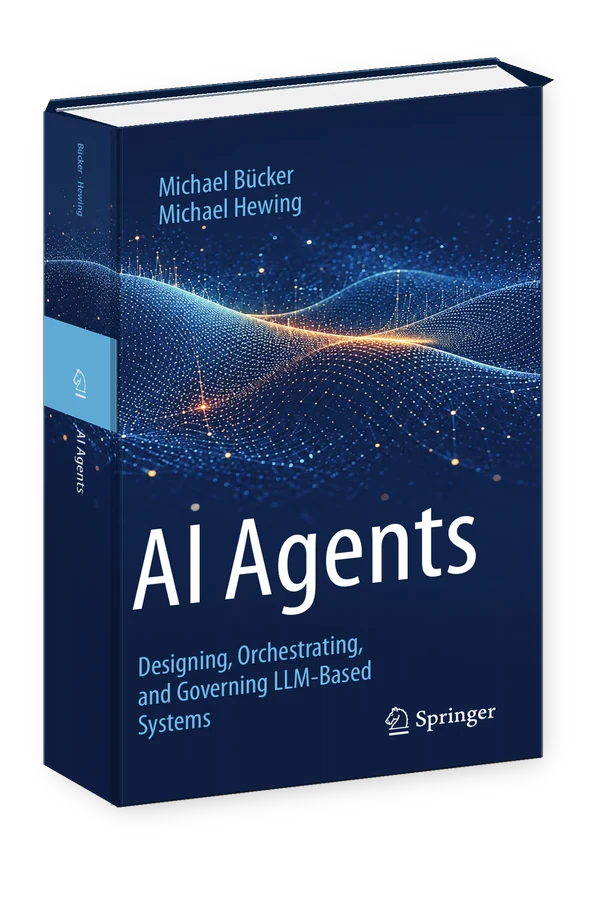
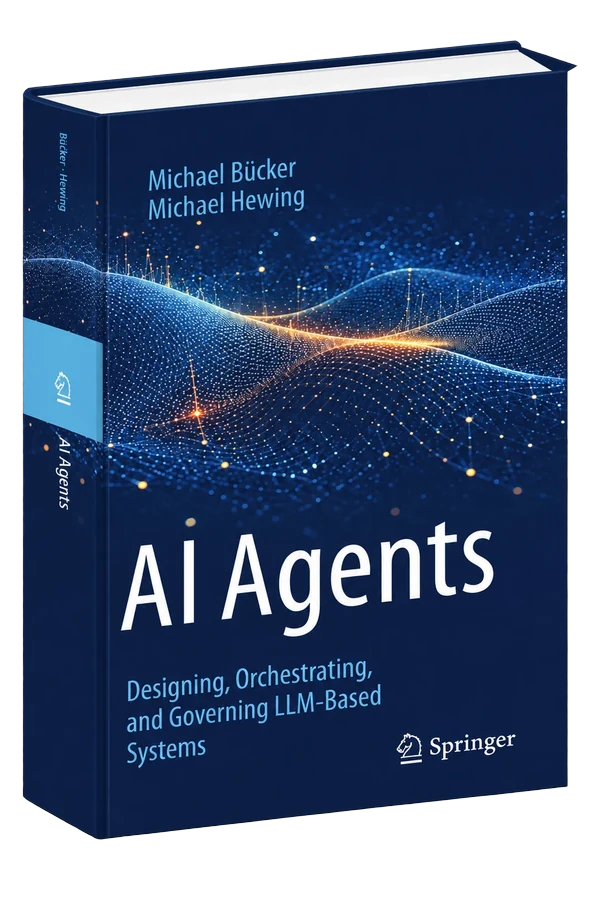
Take the broken board corner out of the cover render
The top right of the case was torn open in the previous render and
carried a gray shadow blob inside its alpha, which showed as a smudge
wherever the page background was not white.

The new render also arrived with its body at alpha 253 rather than 255,
from a lossy alpha pass, so the dark theme glowed faintly through the
boards; near-opaque is snapped back to opaque before scaling. The book
is sized by area rather than width this time, so successive renders with
slightly different proportions stop shrinking it on the page.

Changed region(s): [[0.03, 0.0311, 0.96, 0.9333], [0.81, 0.5289, 0.87, 0.56]]

diff --git a/index.html b/index.html
@@ -105,7 +105,7 @@
     </div>
     <div class="hero-cover">
       <!-- WebP because it is the only format here that carries the render's
-           transparency at a sensible weight: 77 KB against 438 for the same
+           transparency at a sensible weight: 86 KB against 506 for the same
            image as PNG. Transparency is what lets one file serve both colour
            schemes instead of a white rectangle showing up in dark mode. The
            JPEG beside it exists only for og:image, since social scrapers
